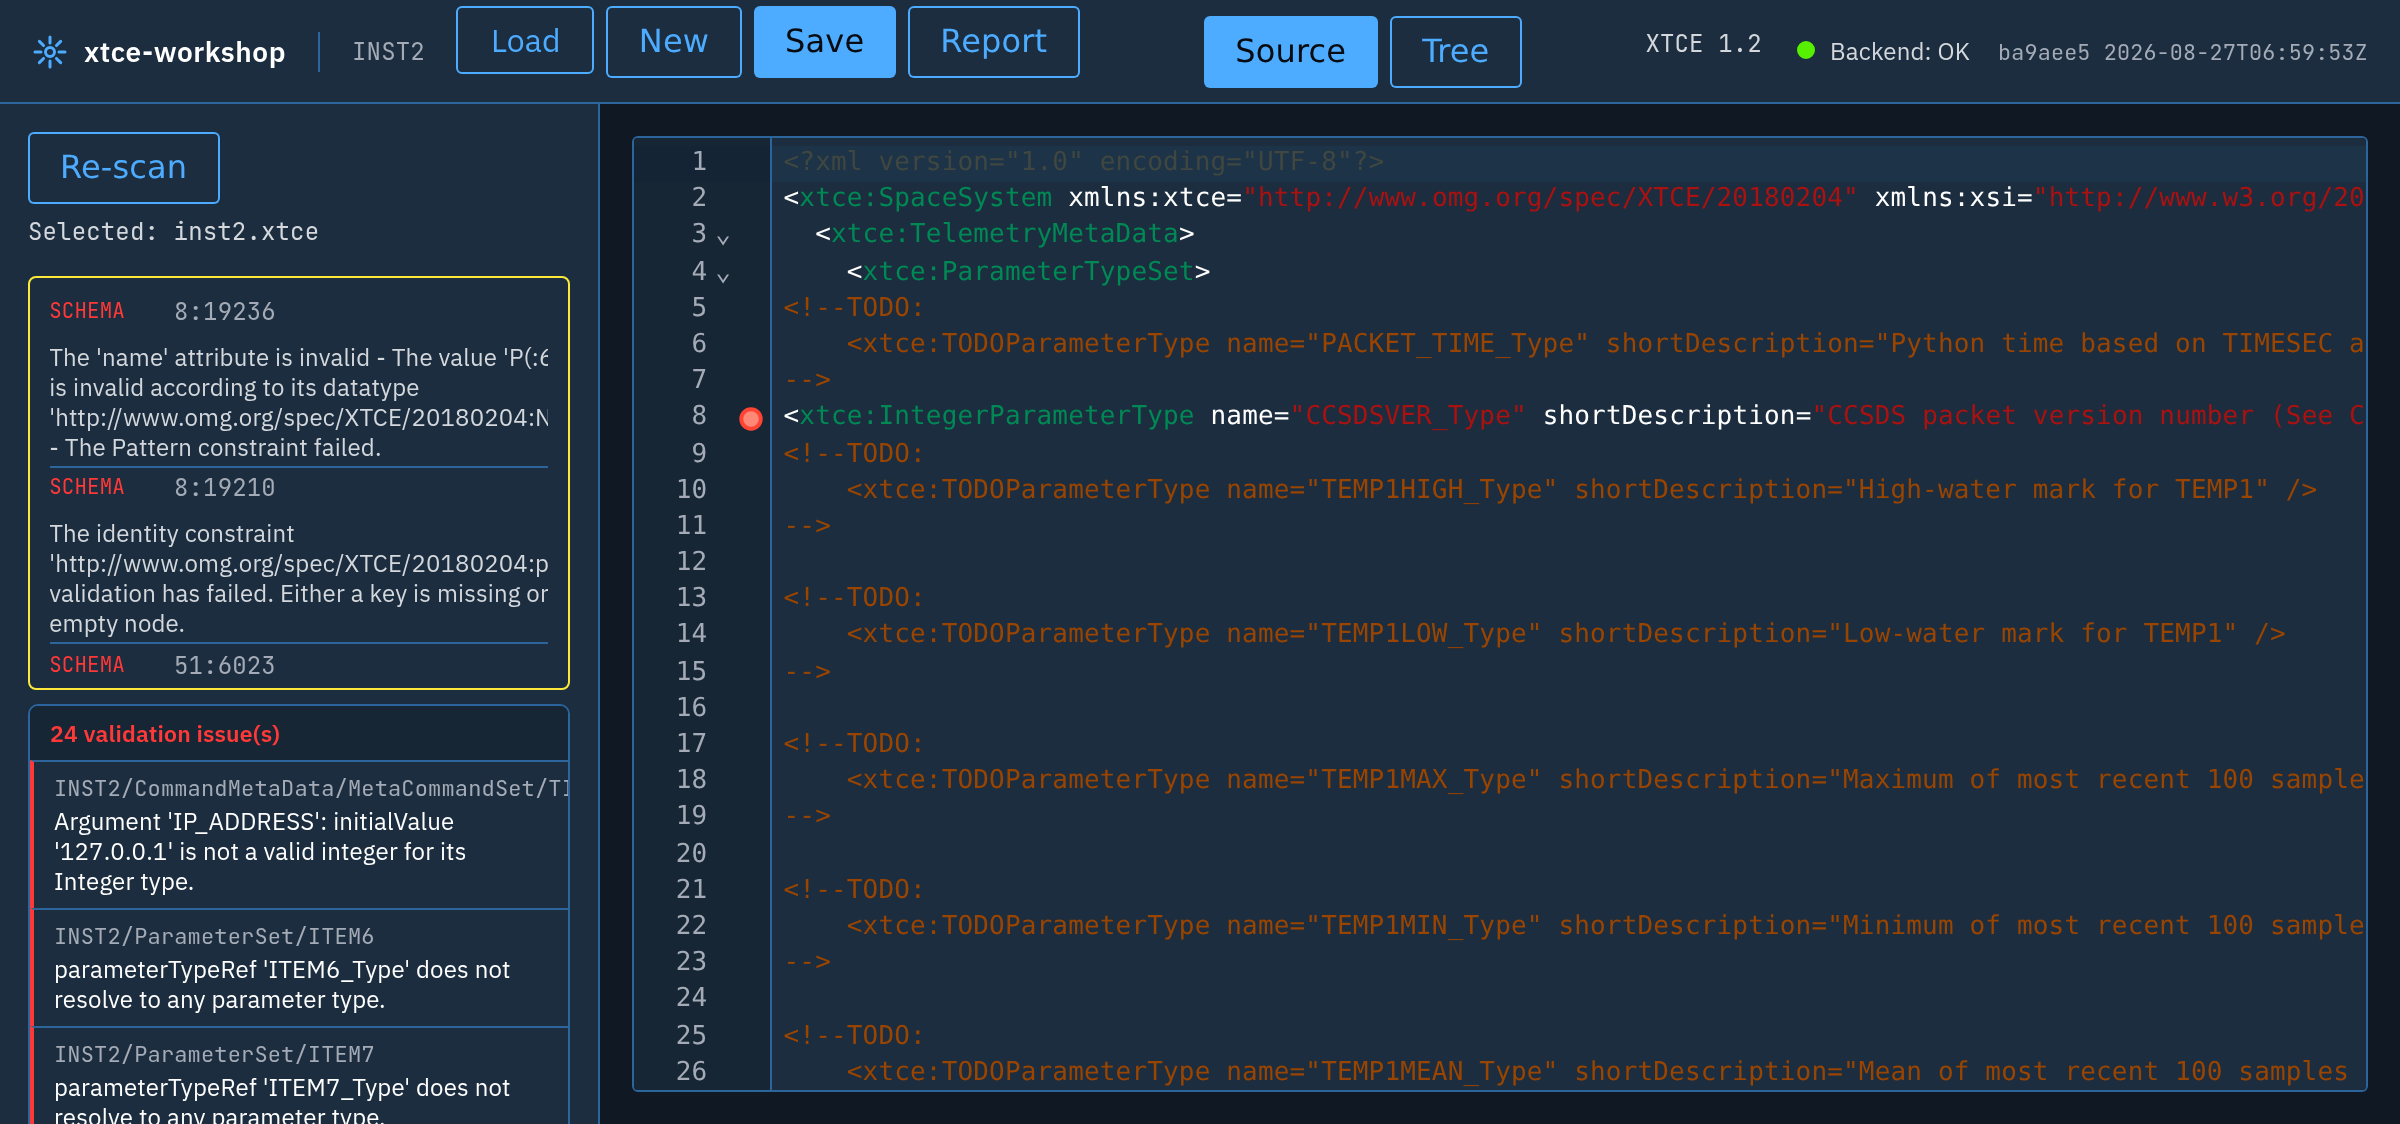
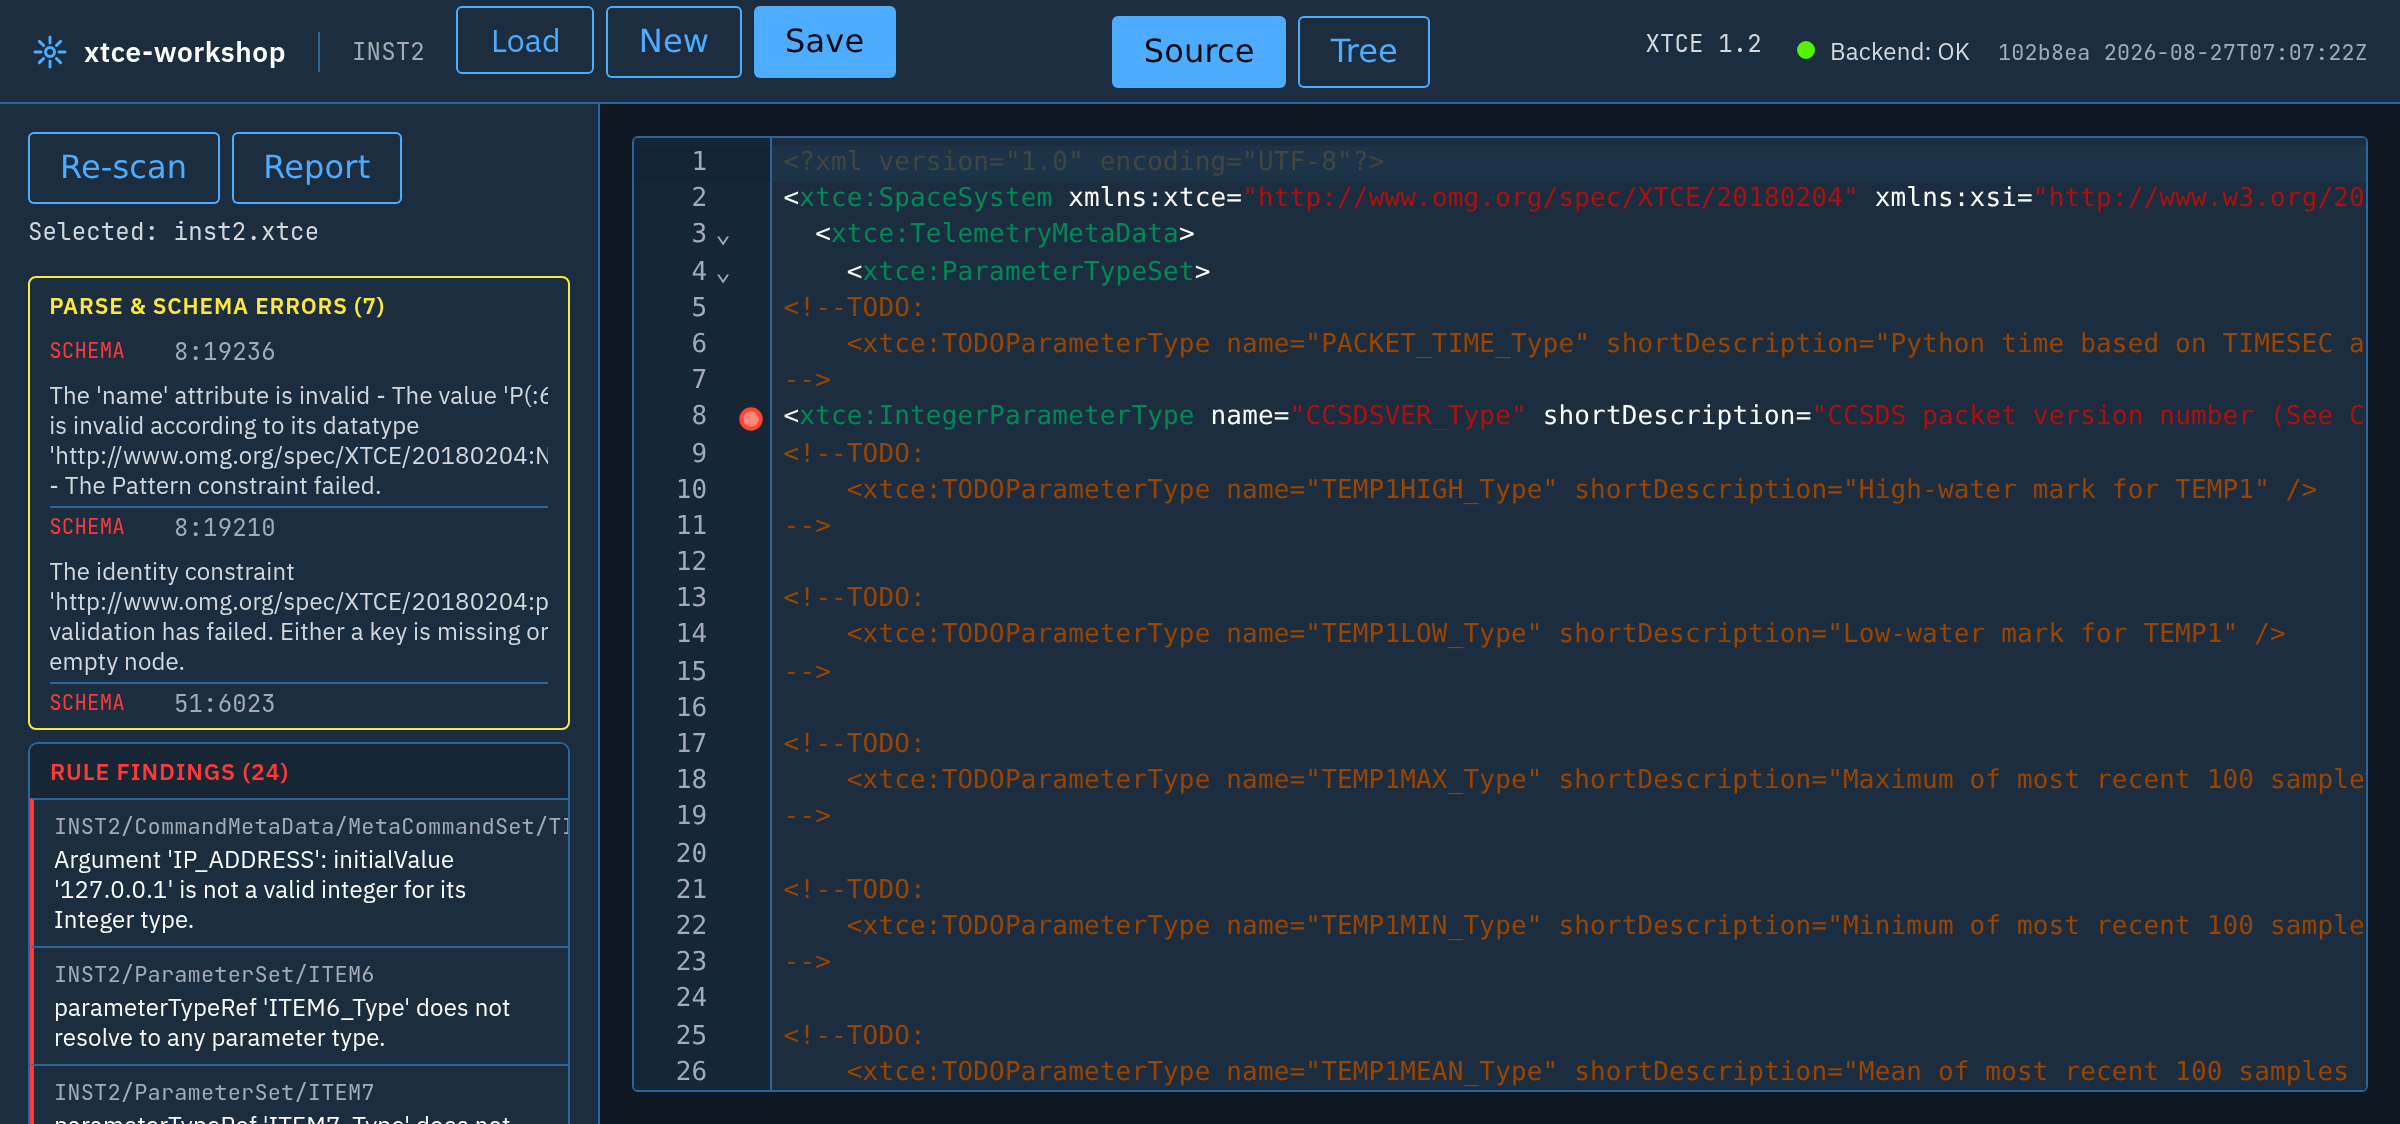
Issue #82: Report button moves into the left pane
Beside Re-scan in source view, atop the filter in tree view; still
gated on a parsed document. README screenshot refreshed.

Claude-Session: https://claude.ai/code/session_01RH3ccPRrpS2E9pTP2ebK1e

diff --git a/web/src/app/app.html b/web/src/app/app.html
@@ -15,7 +15,6 @@
       </label>
       <rux-button secondary (click)="onNewDocument()">New</rux-button>
       <rux-button (click)="onSaveDocument()" [disabled]="!currentDocument() && !sourceText()">Save</rux-button>
-      <rux-button secondary (click)="onRunReport()" [disabled]="!currentDocument()">Report</rux-button>
     </div>
     <div class="spacer"></div>
     @if (currentDocument() || sourceText()) {
@@ -59,7 +58,10 @@
 
       @if (viewMode() === 'source') {
         @if (sourceText() || currentDocument()) {
-          <rux-button secondary class="rescan-side" (click)="onRescan()">Re-scan</rux-button>
+          <div class="side-actions">
+            <rux-button secondary (click)="onRescan()">Re-scan</rux-button>
+            <rux-button secondary (click)="onRunReport()" [disabled]="!currentDocument()">Report</rux-button>
+          </div>
         }
         @if (selectedFileName()) {
           <p class="meta-text">Selected: {{ selectedFileName() }}</p>
@@ -117,6 +119,9 @@
         }
       } @else {
         @if (currentDocument(); as doc) {
+          <div class="side-actions">
+            <rux-button secondary (click)="onRunReport()">Report</rux-button>
+          </div>
           <label class="search-field">
             <svg width="14" height="14" viewBox="0 0 24 24" fill="none" stroke="var(--text-faint)" stroke-width="2" stroke-linecap="round" stroke-linejoin="round"><circle cx="11" cy="11" r="7"/><path d="M21 21l-4.35-4.35"/></svg>
             <input type="search" (input)="onTreeSearchInput($event)" placeholder="Filter by name, alias, or glob" />

diff --git a/web/src/app/app.css b/web/src/app/app.css
@@ -113,8 +113,9 @@
   flex-wrap: nowrap;
 }
 
-.rescan-side {
-  align-self: flex-start;
+.side-actions {
+  display: flex;
+  gap: 6px;
   margin-bottom: 6px;
   flex-shrink: 0;
 }
